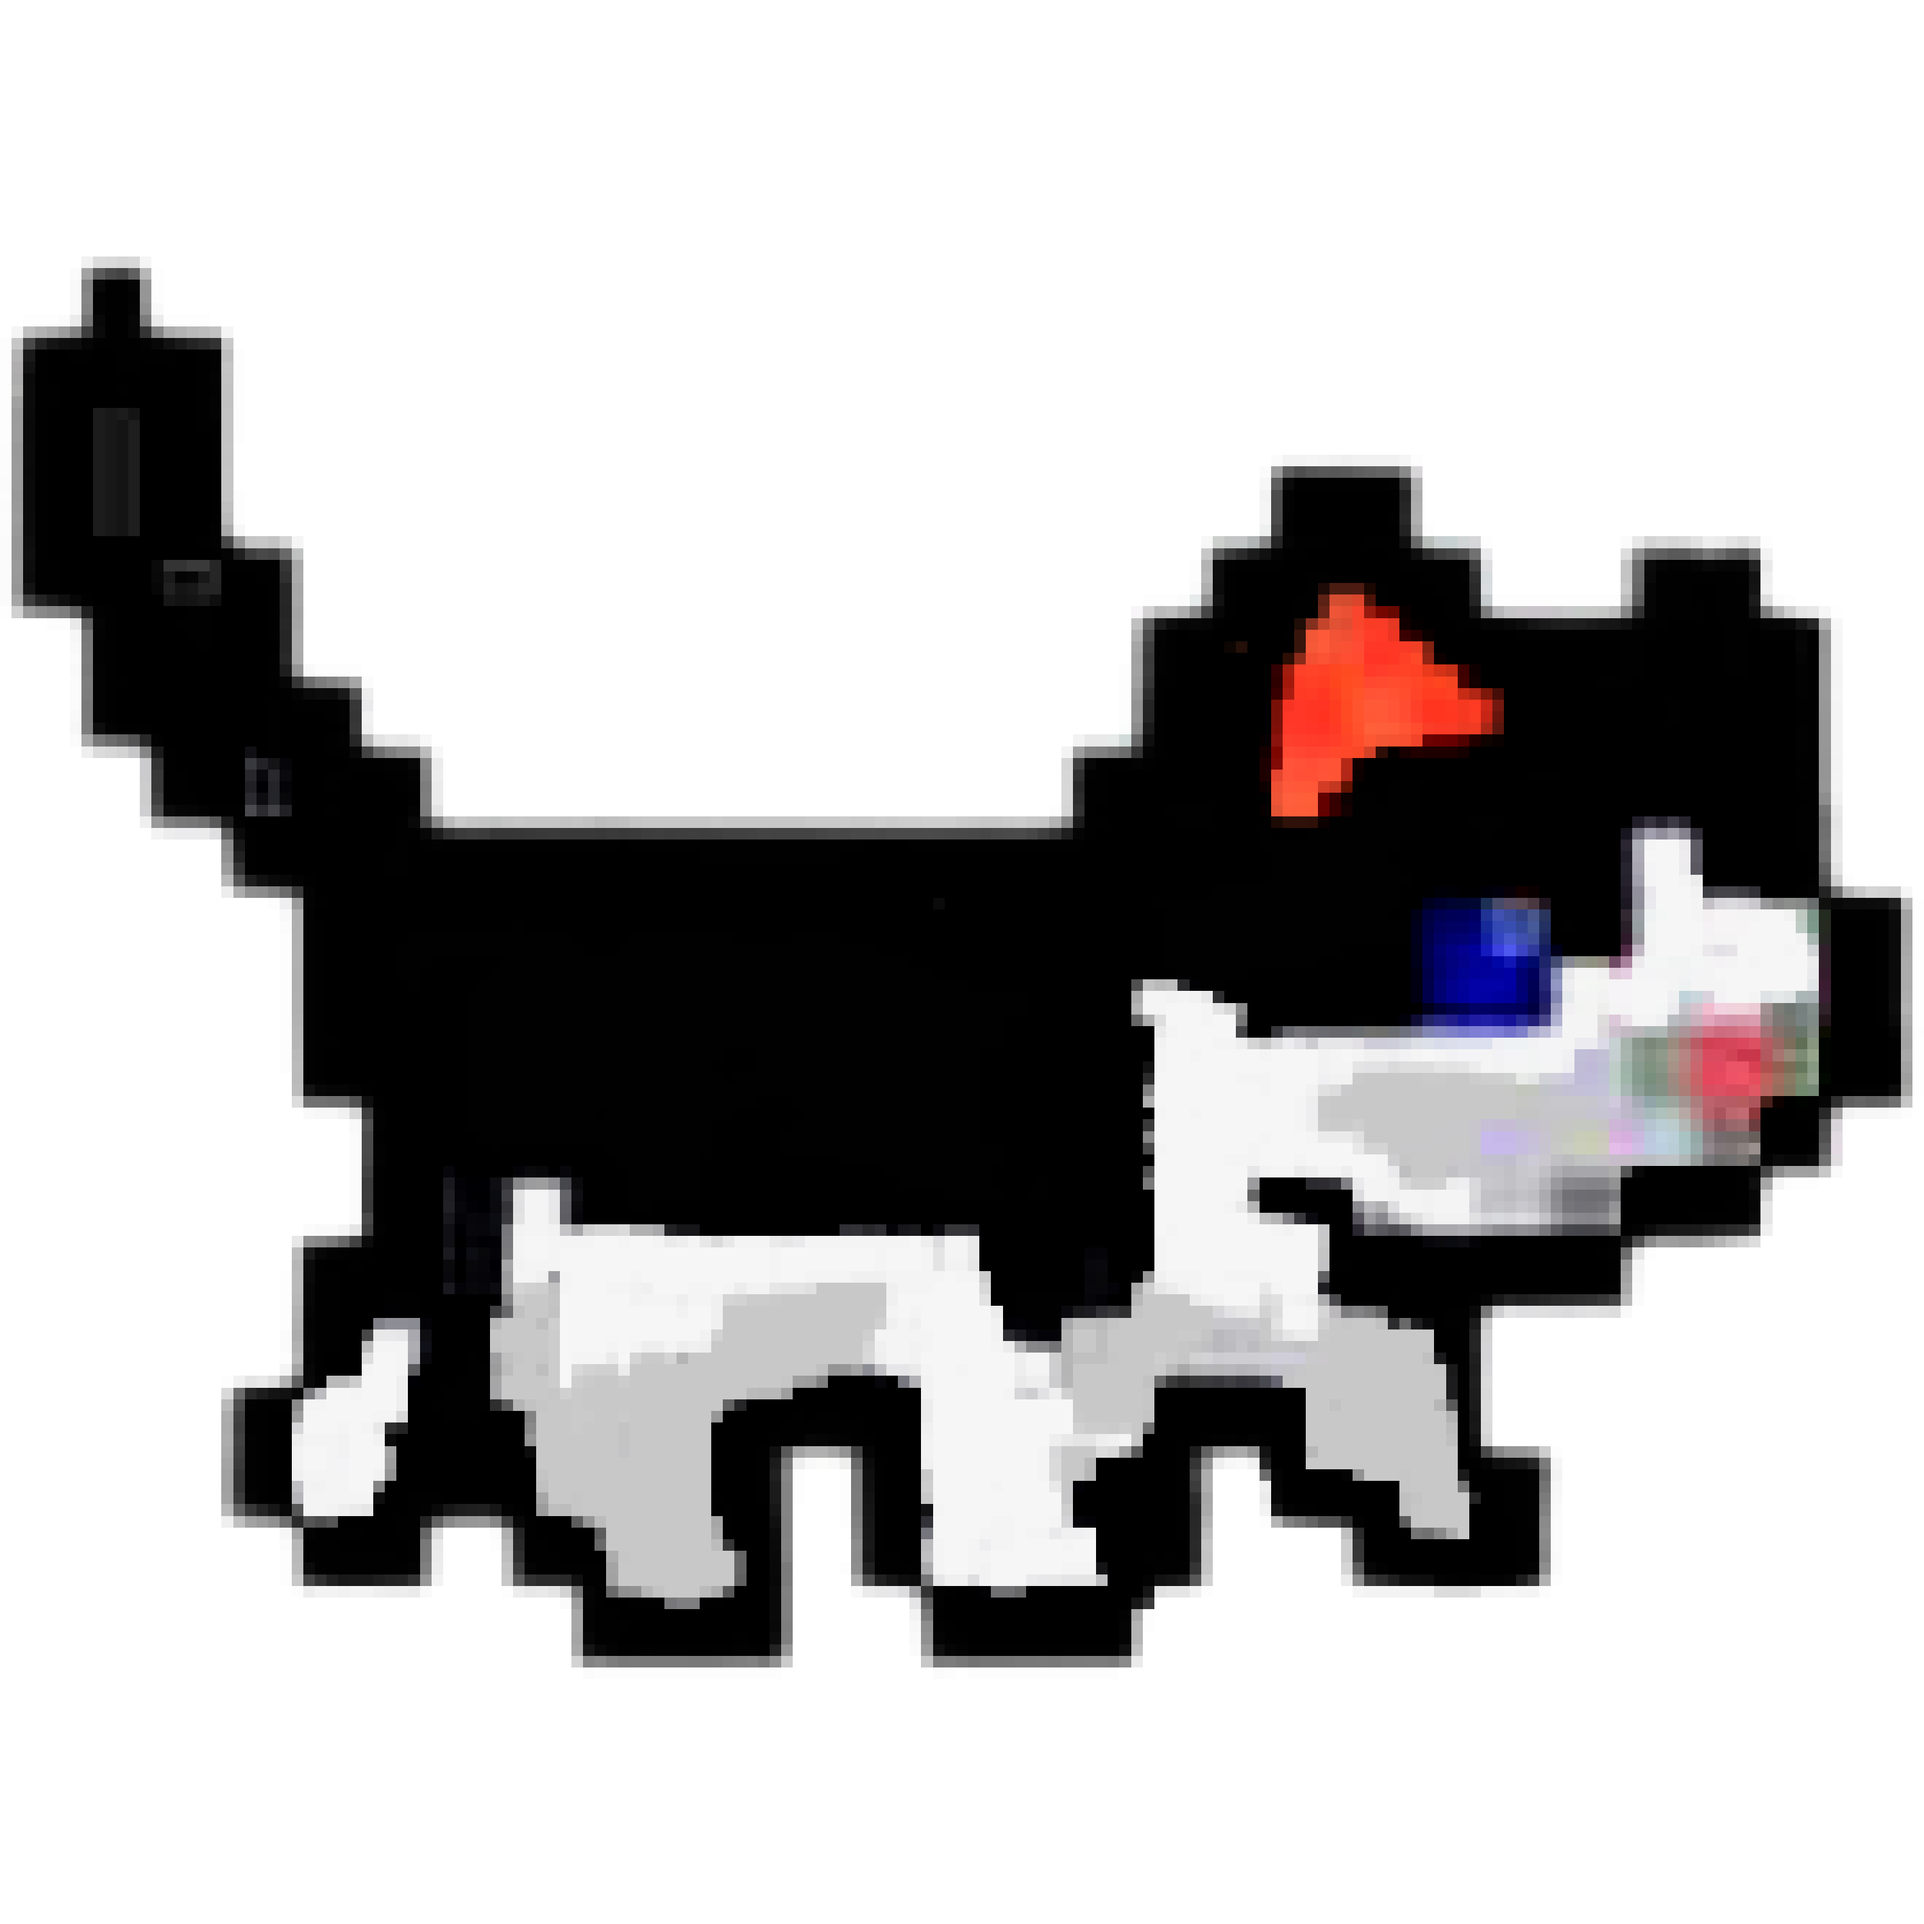
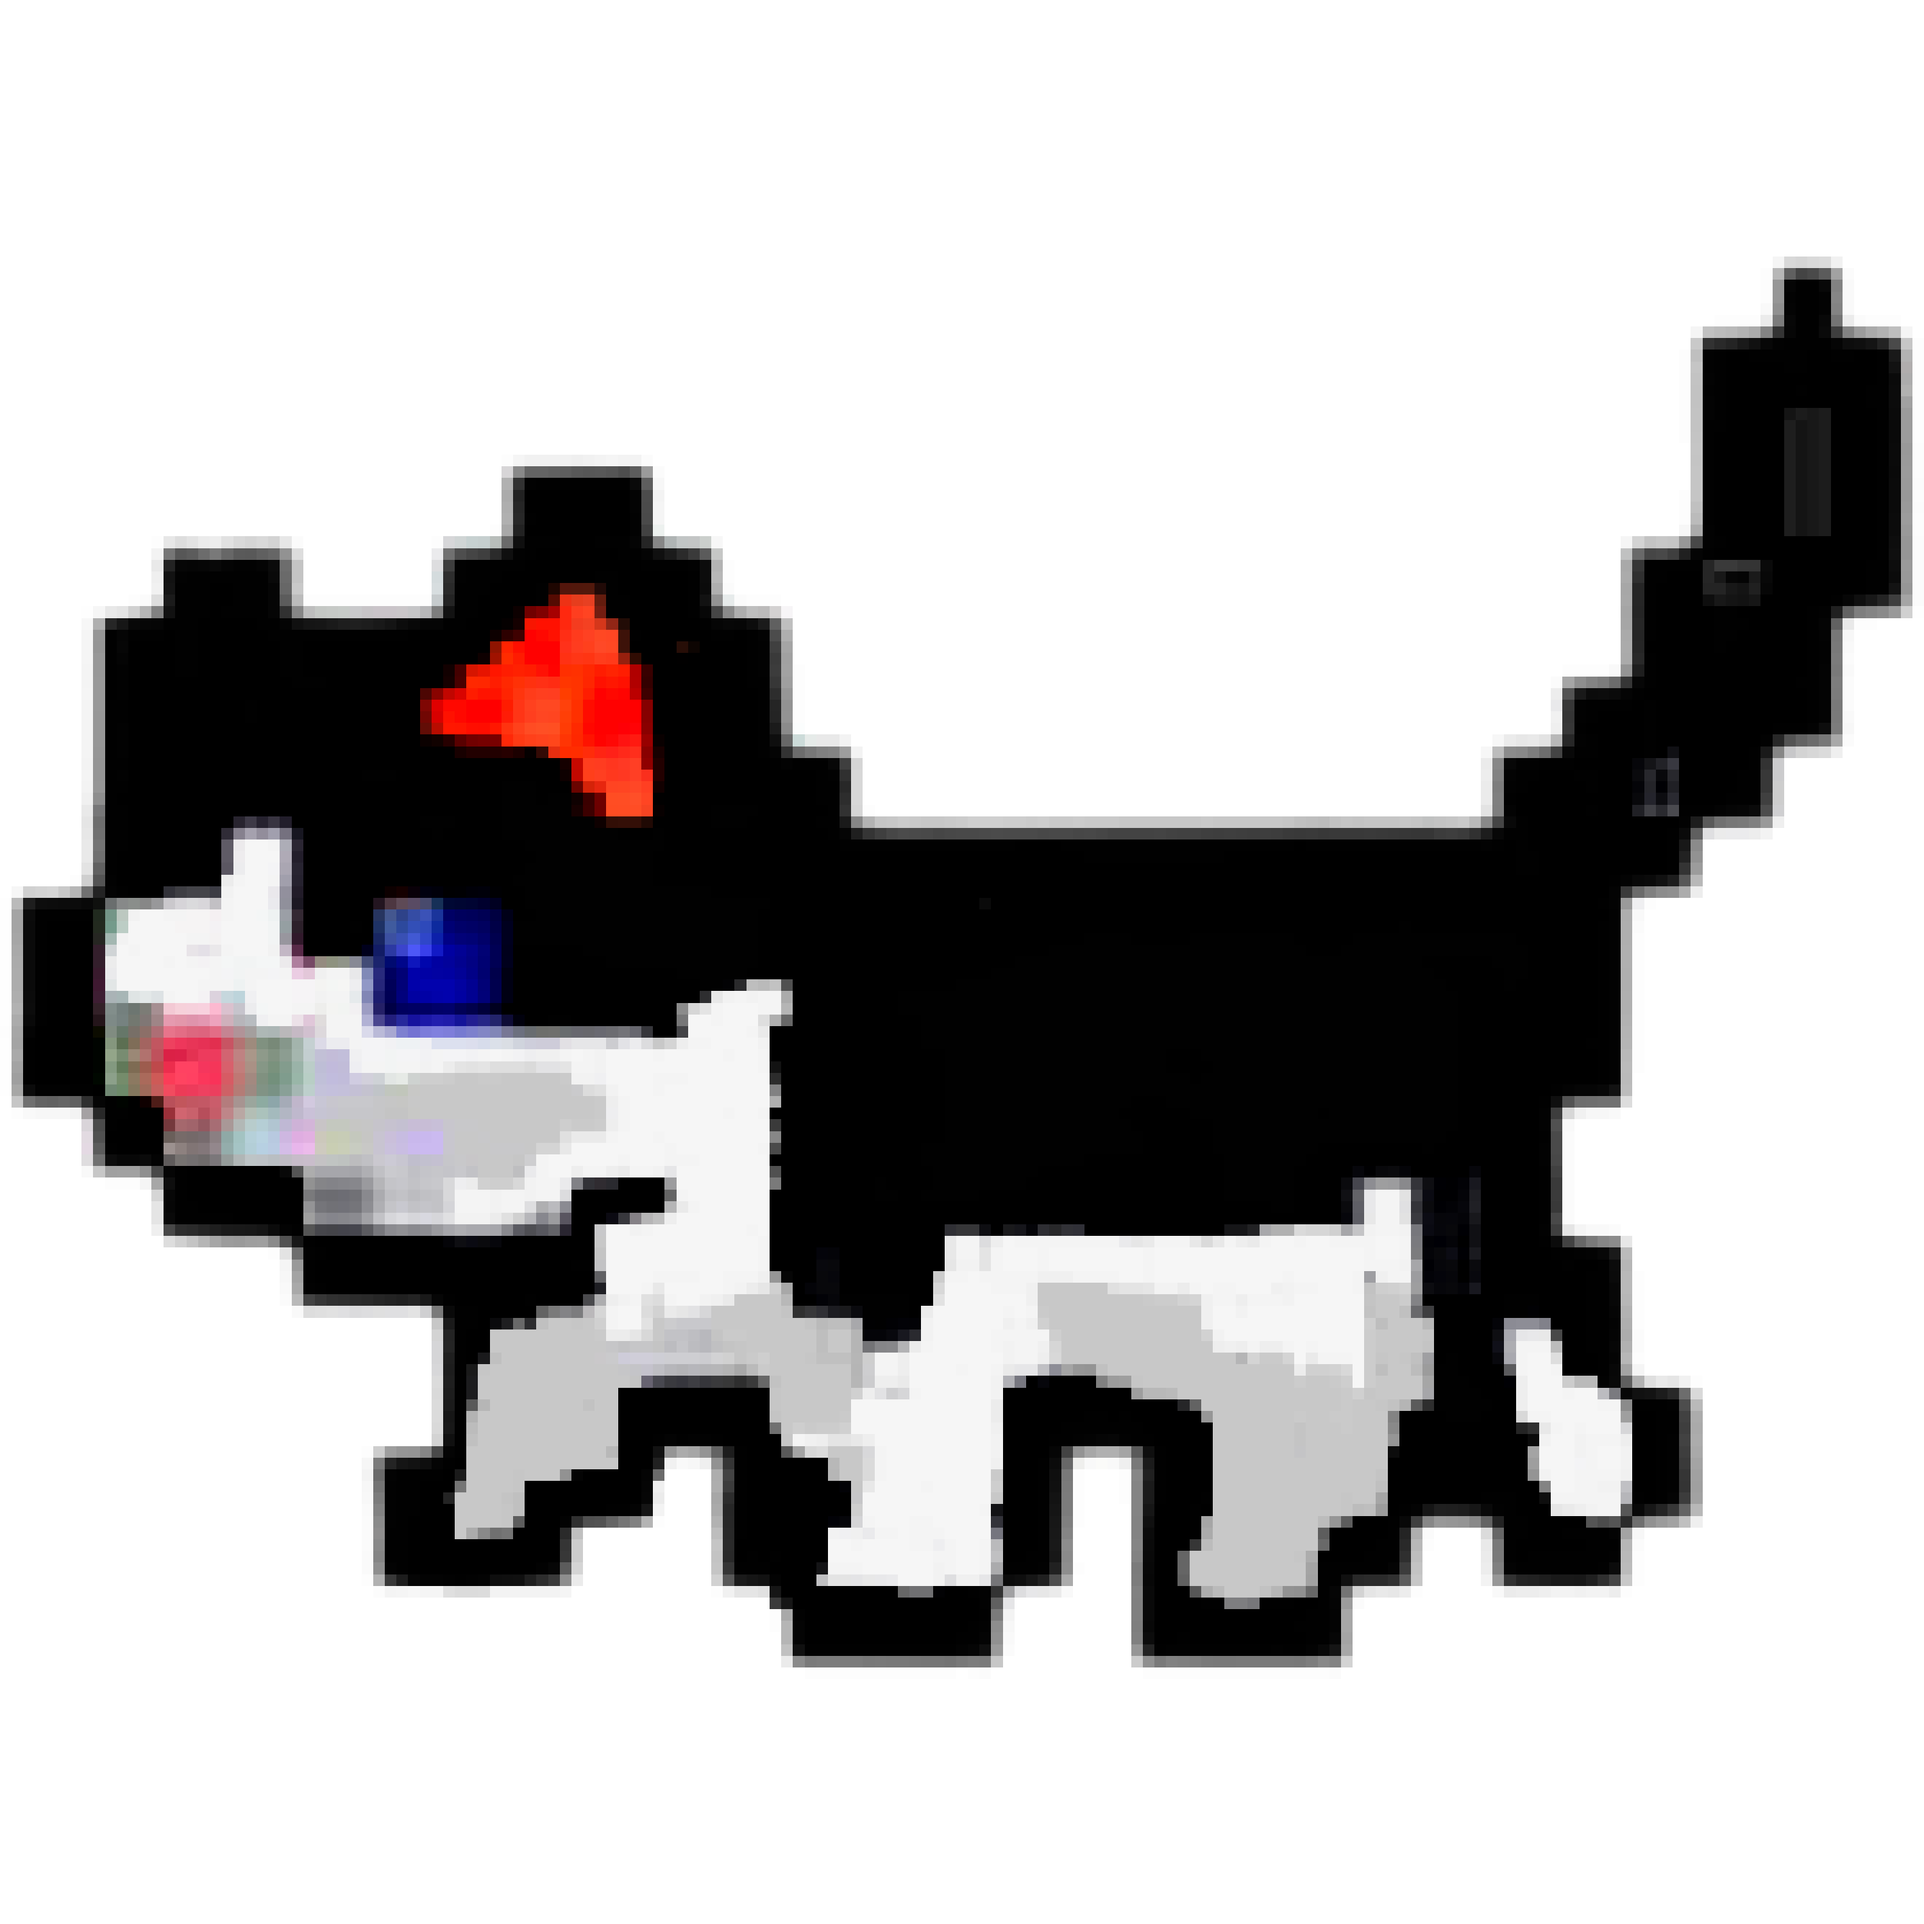
Animation sequence

diff --git a/index.html b/index.html
@@ -175,7 +175,7 @@
       text-align: center;
       font-size: 20px;
       font-family: 'Windows Regular', Arial, sans-serif;
-      z-index: 1;
+      z-index: 3; /* Increased to be above cat frames */
       cursor: pointer;
       transition: transform 0.2s ease;
       width: 80px;
@@ -220,37 +220,26 @@
     /* Cat Animation */
     .cat-container {
       position: fixed;
-      bottom: 178px;
-      left: 50%;
+      bottom: 100px; /* Changed from 300px to move animation down by 200px */
+      left: 700px;
       transform: translateX(-50%);
-      opacity: 0;
-      transition: opacity 0.3s ease;
-      z-index: 0;
+      opacity: 1;
+      transition: all 0.3s linear;
+      z-index: 2;
+      width: 100px;
+      height: 100px;
     }
 
     .cat-frame {
       position: absolute;
-      width: 130px;
+      width: 100%;
+      height: 100%;
       opacity: 0;
-      transition: all 0.5s ease;
+      transition: opacity 0.2s ease;
+      filter: drop-shadow(0 5px 3px rgba(0, 0, 0, 0.2));
     }
 
     .cat-frame.active {
-      opacity: 1;
-    }
-
-    .stagnant-cat-container {
-      position: fixed;
-      bottom: 100px;
-      left: 700px;
-      transform: translateX(-50%);
-      z-index: 2;
-    }
-
-    .stagnant-cat {
-      width: 100px;
-      height: auto;
-      filter: drop-shadow(0 5px 3px rgba(0, 0, 0, 0.2));
       opacity: 0.95;
     }
 
@@ -322,11 +311,6 @@
     </div>
   </div>
 
-  <!-- Stagnant Cat -->
-  <div class="stagnant-cat-container">
-    <img src="Cat stagnant state.png" alt="Stagnant Cat" class="stagnant-cat" />
-  </div>
-
   <!-- Doormat -->
   <div class="doormat-container">
     <img src="Doormat.png" alt="Doormat" class="doormat-image" />
@@ -343,10 +327,10 @@
 
   <!-- Cat Animation Frames -->
   <div class="cat-container">
-    <img src="4.png?v=1" alt="Cat Frame 4" class="cat-frame" id="frame4" />
-    <img src="1.png?v=1" alt="Cat Frame 1" class="cat-frame" id="frame1" />
-    <img src="2.png?v=1" alt="Cat Frame 2" class="cat-frame" id="frame2" />
-    <img src="3.png?v=1" alt="Cat Frame 3" class="cat-frame" id="frame3" />
+    <img src="Cat stagnant state.png" alt="Cat Stagnant" class="cat-frame active" id="stagnant" />
+    <img src="walk1.png" alt="Walking 1" class="cat-frame" id="walk1" />
+    <img src="walk2.png" alt="Walking 2" class="cat-frame" id="walk2" />
+    <img src="Cat eating.png" alt="Cat Eating" class="cat-frame" id="eating" />
   </div>
 
   <!-- Screen Size Debug -->
@@ -377,7 +361,12 @@
     window.addEventListener('resize', updateScreenSize);
 
     // Cat Animation
-    const frames = ['frame4', 'frame1', 'frame2', 'frame3', 'frame4'];
+    const frames = [
+      'stagnant',
+      'walk1', 'walk2', 'walk1',
+      'walk1', 'walk2', 'walk1',
+      'walk1', 'walk2', 'eating'
+    ];
     const bowls = ['fullBowl', 'halfBowl', 'quarterBowl', 'emptyBowl'];
     let isAnimating = false;
 
@@ -390,11 +379,9 @@
       document.getElementById('fullBowl').classList.add('active');
 
       const catContainer = document.querySelector('.cat-container');
-      catContainer.style.opacity = '1';
-
+      const startPosition = 700;
+      const endPosition = 40;
       let frameIndex = 0;
-      const totalDistance = window.innerWidth / 2 - 200;
-      let currentPosition = 0;
 
       const frameInterval = setInterval(() => {
         document.querySelectorAll('.cat-frame').forEach(f => f.classList.remove('active'));
@@ -402,40 +389,54 @@
         if (frameIndex < frames.length) {
           const frame = document.getElementById(frames[frameIndex]);
           frame.classList.add('active');
-          currentPosition = (frameIndex / (frames.length - 1)) * totalDistance;
-          catContainer.style.transform = `translateX(calc(-50% - ${currentPosition}px))`;
-
+          
+          const progress = frameIndex / (frames.length - 1);
+          const currentLeft = startPosition - (progress * (startPosition - endPosition));
+          catContainer.style.left = `${currentLeft}px`;
+          
           // When cat reaches the bowl (last frame)
           if (frameIndex === frames.length - 1) {
+            catContainer.style.left = `${endPosition + 37}px`; // 35px + 2px more right shift
+            catContainer.style.bottom = '106px'; // 104px + 2px more up shift
+            
+            // Keep cat eating while bowl empties
             setTimeout(() => {
               document.querySelectorAll('.bowl-image').forEach(b => b.classList.remove('active'));
               document.getElementById('halfBowl').classList.add('active');
             }, 500);
 
-            // Change to quarter bowl
             setTimeout(() => {
               document.querySelectorAll('.bowl-image').forEach(b => b.classList.remove('active'));
               document.getElementById('quarterBowl').classList.add('active');
             }, 1000);
 
-            // Change to empty bowl
             setTimeout(() => {
               document.querySelectorAll('.bowl-image').forEach(b => b.classList.remove('active'));
               document.getElementById('emptyBowl').classList.add('active');
+              
+              // Only reset animation after bowl is empty
+              setTimeout(() => {
+                catContainer.style.opacity = '0';
+                catContainer.style.left = `${startPosition}px`;
+                document.querySelectorAll('.cat-frame').forEach(f => f.classList.remove('active'));
+                isAnimating = false;
+              }, 500);
             }, 1500);
+            
+            clearInterval(frameInterval); // Stop frame changes
           }
         } else {
           clearInterval(frameInterval);
           setTimeout(() => {
             catContainer.style.opacity = '0';
-            catContainer.style.transform = 'translateX(-50%)';
+            catContainer.style.left = `${startPosition}px`;
             document.querySelectorAll('.cat-frame').forEach(f => f.classList.remove('active'));
             isAnimating = false;
           }, 1000);
         }
 
         frameIndex++;
-      }, 500);
+      }, 200); // Faster animation timing
     }
   </script>
 </body>
